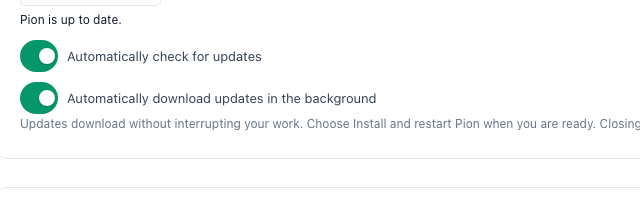
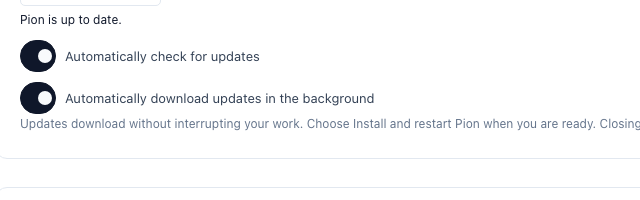
style(ui): match Switch to the original Pi-skills toggle design
Restyle the unified Switch primitive to the original skill switch:
36x22 pill track, 14px thumb, muted track/thumb when off and ink track
with canvas thumb when on (instead of the previous brand-green style).
Keeps the shared component and token-driven light/dark behaviour.

Changed region(s): [[0.0312, 0.39, 0.5938, 0.57], [0.0312, 0.18, 0.4062, 0.36]]

diff --git a/src/ui/primitives/Switch.module.css b/src/ui/primitives/Switch.module.css
@@ -1,39 +1,36 @@
 /*
  * Unified switch design language.
- * One track/thumb treatment for every on/off control in the app:
- * - off: neutral track + muted thumb
- * - on:  brand track + canvas thumb
- * Uses theme tokens so it adapts to light and dark automatically.
+ * Matches the original Pi-skills toggle: a 36x22 pill track with a 14px
+ * thumb. Off = muted surface track / muted thumb; On = ink track with a
+ * canvas thumb. Colour and geometry come from theme tokens so light and
+ * dark stay consistent, and hover/focus/disabled behave the same everywhere.
  */
 .switch {
-  --switch-track-width: 38px;
+  --switch-track-width: 36px;
   --switch-track-height: 22px;
-  --switch-thumb-size: 16px;
+  --switch-thumb-size: 14px;
   display: inline-flex;
   width: var(--switch-track-width);
   min-width: var(--switch-track-width);
   height: var(--switch-track-height);
   align-items: center;
   padding: 0;
-  border: 0;
+  border: 1px solid var(--pion-color-muted);
   border-radius: var(--pion-size-radius-pill);
-  background: var(--pion-color-line-strong);
+  background: var(--pion-color-surface-muted);
   cursor: pointer;
   transition:
-    background 140ms ease,
-    box-shadow 140ms ease;
+    background 120ms ease,
+    border-color 120ms ease;
 }
 
 .switch:hover:not(:disabled) {
-  background: var(--pion-color-muted);
+  border-color: var(--pion-color-ink-soft);
 }
 
 .switch[aria-checked="true"] {
-  background: var(--pion-color-brand-strong);
-}
-
-.switch[aria-checked="true"]:hover:not(:disabled) {
-  background: var(--pion-color-brand);
+  border-color: var(--pion-color-ink);
+  background: var(--pion-color-ink);
 }
 
 .switch:focus-visible {
@@ -53,13 +50,12 @@
   width: var(--switch-thumb-size);
   height: var(--switch-thumb-size);
   border-radius: 50%;
-  background: var(--pion-color-surface);
-  box-shadow: 0 1px 2px rgb(15 23 42 / 24%);
+  background: var(--pion-color-muted);
   transform: translateX(3px);
-  transition: transform 140ms ease;
+  transition: transform 120ms ease;
 }
 
 .switch[aria-checked="true"] .thumb {
-  background: var(--pion-color-surface);
-  transform: translateX(calc(var(--switch-track-width) - var(--switch-thumb-size) - 3px));
+  background: var(--pion-color-canvas);
+  transform: translateX(calc(var(--switch-track-width) - var(--switch-thumb-size) - 5px));
 }
